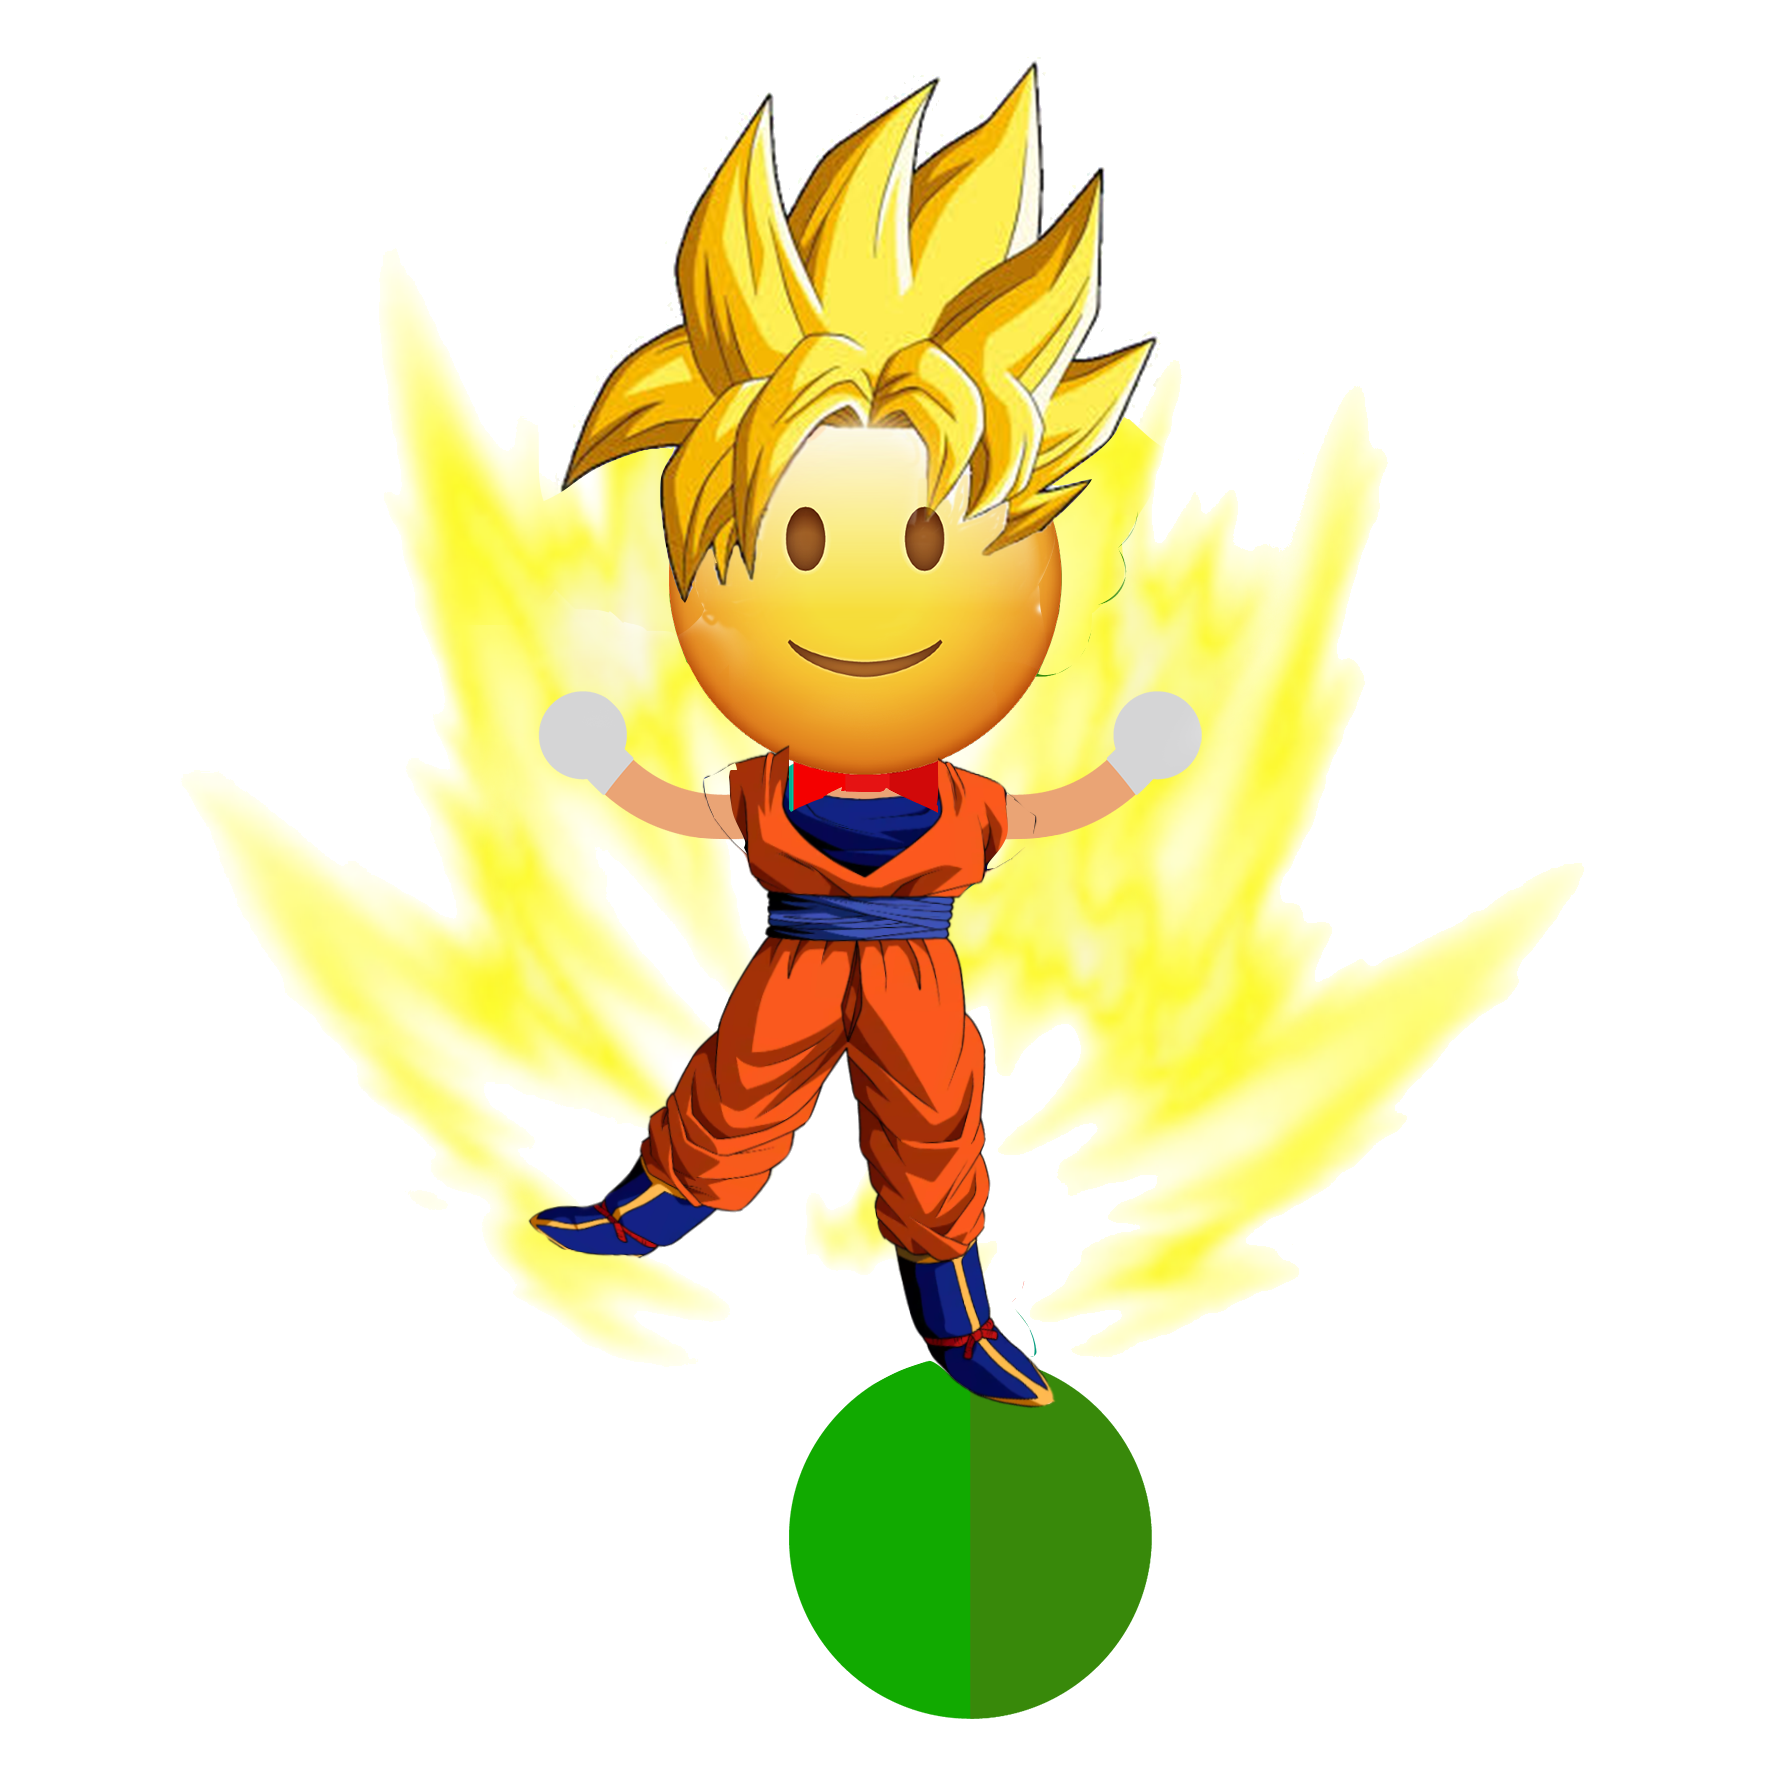
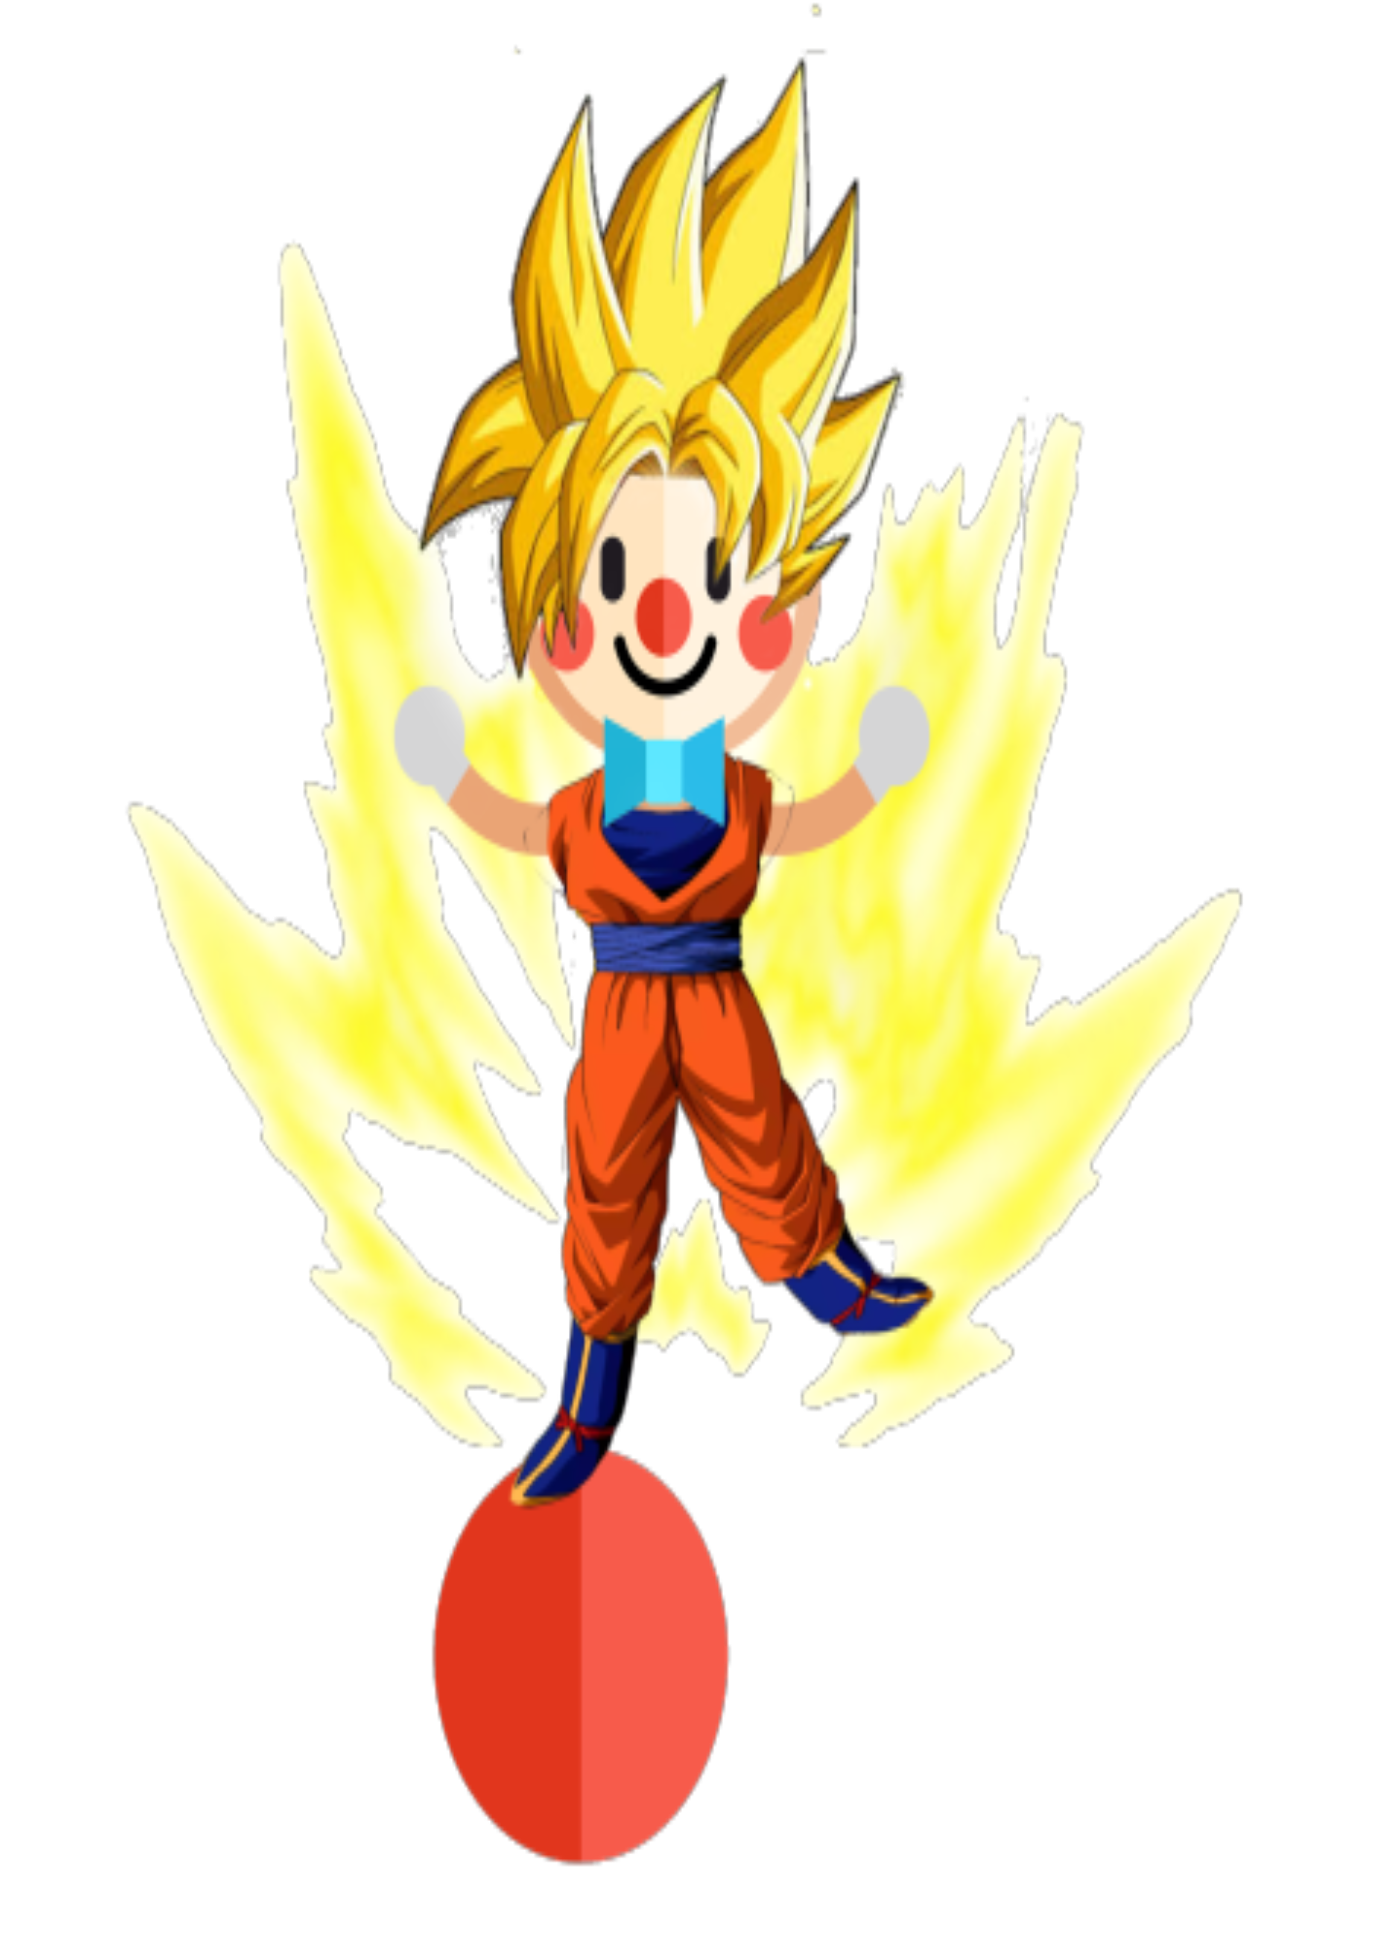
check pictures

diff --git a/src/Controllers/levels/newWorld.java b/src/Controllers/levels/newWorld.java
@@ -2,6 +2,7 @@ package Controllers.levels;
 
 import Controllers.Difficulty.Speed;
 import Models.BackGround.BackGroundFactory;
+import Models.Clowns.ClownFactory;
 import View.Gui.EndGame;
 import View.Gui.Gui;
 import Models.Utils.ArrayIterator;
@@ -41,10 +42,12 @@ public class newWorld implements World {
     ArrayList<Pair<Stick, Integer>> sticksArray = new ArrayList<>();
     ArrayList<Clown> clownsArray = new ArrayList<>();
     intersectPlates intersection = new intersectPlates();
+    int platesSpeed = 1;
     //static ArrayList <ArrayList <GameObject> > allData;
     Integer[] clownsX;
     ShelfHandler shelfhandler;
     long startSpecial;
+    boolean specialModeSeconds = false;
     boolean specialMode=false;
     private BackGroundFactory backGroundFactory = BackGroundFactory.getInstance();
     GameObject storeBackground;
@@ -95,12 +98,12 @@ public class newWorld implements World {
     @Override
     public boolean refresh() {
         long currentTime = System.currentTimeMillis();
-        if(score == 5){
+        if(score == 10){
             endGameWin();
             return false;
         }
         if(Gui.checkClosed())return false;
-        if((currentTime-startTime)/1000 >= 125){
+        if((currentTime-startTime)/1000 >= 120){
             endGameLose();
             return false;
         }
@@ -121,6 +124,7 @@ public class newWorld implements World {
             if (m.getY() == getHeight()) {
                 it.remove();
             }
+            int temp = score;
             int[] z = {score};
             if (intersection.intersect(m, sticksArray, z, movableObjects)) {
                 m.setState(new StackedState(m));
@@ -128,46 +132,73 @@ public class newWorld implements World {
             }
             if (m.getType().equals("SpecialPlate")&&intersection.isSpecial){
                 startSpecial=System.currentTimeMillis();
-                specialMode=true;
-                GameObject background1 = backGroundFactory.getBackGround(0,0,1200,600,"boom2.jpg");
+                GameObject background1 = backGroundFactory.getBackGround(0,0,1200,600,"boom.jpg");
                 intersection.isSpecial = false;
-                storeBackground=constantObjects.get(0);
-                constantObjects.set(0,background1);
-                storeSpeed=speed.getControlSpeed();
-                speed.setControlSpeed(storeSpeed*2);
-               /* Iterator iterator = clownsArray.iterator();
-                while(iterator.hasNext()){
-                    storeClownsArray.add((Clown) iterator.next());
-                }*/
-                /*for (int i=0; i<clownsArray.size(); i++){
+                Iterator iterator = clownsArray.iterator();
+                if(!specialMode) {
+                    storeBackground=constantObjects.get(0);
+                    constantObjects.set(0,background1);
+                    while (iterator.hasNext()) {
+                        storeClownsArray.add((Clown) iterator.next());
+                    }
+                }
+                boolean first = false;
+                for (int i=0; i<clownsArray.size(); i++){
                     Clown newOne;
                     int x=clownsArray.get(i).getX();
                     int y=clownsArray.get(i).getY();
-                   if(Facade.clownPath.contains("1")||Facade.clownPath.contains("2")) {
+                   if(Facade.clownPath.contains("1")) {
+                       first = true;
                        newOne= ClownFactory.getInstance().getclown(x,y,"Clown/goku.png",1);
-                       clownsArray.set(i,newOne);
+                   } else if(Facade.clownPath.contains("2")) {
+                        first = true;
+                        newOne= ClownFactory.getInstance().getclown(x,y,"Clown/goku2.png",1);
+                    }else if  (Facade.clownPath.contains("3")){
+                       first = false;
+                       newOne= ClownFactory.getInstance().getclown(x,y,"Clown/goku3.png",1);
+                   }else if  (Facade.clownPath.contains("4")){
+                       first = false;
+                       newOne= ClownFactory.getInstance().getclown(x,y,"Clown/goku4.png",1);
+                   }else {
+                       first = false;
+                       newOne= ClownFactory.getInstance().getclown(x,y,"Clown/goku5.png",1);
                    }
-                }*/
-                int x=clownsArray.get(0).getX();
-                int y=clownsArray.get(0).getY();
-                Clown newOne=ClownFactory.getInstance().getclown(x,y,"Clown/clown4.png",1);
-                clownsArray.set(0,newOne);
+                    newOne.stick1 = clownsArray.get(i).stick1;
+                    newOne.stick2 = clownsArray.get(i).stick2;
+                    newOne.registerObserver(newOne.stick1);
+                    newOne.registerObserver(newOne.stick2);
+                    controlableObjects.set(i,newOne);
+                    clownsArray.set(i,newOne);
+                }
+                specialModeSeconds = true;
+                specialMode=true;
             }
-            score = z[0];
+            if(specialMode){
+                score = temp + (z[0]-temp) * 2;
+            } else  {
+                score = z[0];
+            }
         }
-        /*  if ((currentTime-startSpecial)/1000>2 && (currentTime-startSpecial)/1000<15 && specialMode){
-            GameObject background1 = backGroundFactory.getBackGround(0,0,1200,600,"boom2.jpg");
+        if ((currentTime-startSpecial)/1000>2 && (currentTime-startSpecial)/1000<15 && specialModeSeconds) {
+            GameObject background1 = backGroundFactory.getBackGround(0,0,1200,600,"hi.png");
             constantObjects.set(0,background1);
-
-        }*/
-        if ((currentTime-startSpecial)/1000>15 && specialMode){
+            specialModeSeconds = false;
+        }
+        if ((currentTime-startSpecial)/1000>15 && specialMode) {
             specialMode=false;
             constantObjects.set(0,storeBackground);
-            speed.setControlSpeed(storeSpeed);
+            boolean first = false;
+            for (int i=0; i<storeClownsArray.size(); i++){
+                Clown newOne;
+                controlableObjects.set(i,storeClownsArray.get(i));
+                storeClownsArray.get(i).x = clownsArray.get(i).getX();
+                clownsArray.set(i,storeClownsArray.get(i));
+            }
+            storeClownsArray.clear();
         }
         if (time == 0)
             shelfhandler.throwPlates();
-        if(time_2==900){shelfhandler.makeSpecialPlates();time_2=0;}
+        if(time_2==100){shelfhandler.makeSpecialPlates();time_2=0;}
         it = removed.iterator();
         while (it.hasNext()) {
             constantObjects.remove(it.next());
@@ -226,7 +257,7 @@ public class newWorld implements World {
 
     @Override
     public String getStatus() {
-        return status + score + "                     Current Time: "+ ((System.currentTimeMillis() - startTime)/1000-5);
+        return status + score + "                     Current Time: "+ ((System.currentTimeMillis() - startTime)/1000);
     }
 
     @Override

diff --git a/src/View/Gui/EndGame.java b/src/View/Gui/EndGame.java
@@ -51,7 +51,7 @@ public class EndGame extends Application {
         label2.setFont(Font.font("Cambria", 15));
         label.setFont(Font.font("Cambria", 25));
         ImageView clown;
-        clown = new ImageView(new Image("Resources/yahia.jpg"));
+        clown = new ImageView(new Image("Resources/hi.png"));
         clown.setFitWidth(70);
         clown.setFitHeight(90);
         Button button=new Button(null,clown);

diff --git a/src/Models/Clowns/ImageObject.java b/src/Models/Clowns/ImageObject.java
@@ -12,7 +12,7 @@ public class ImageObject implements GameObject,Cloneable {
     public BufferedImage[] spriteImages = new BufferedImage[1];
     public ArrayList observers = new ArrayList();
     Loader loader;
-    int x;
+    public int x;
     int y;
     public boolean visible = true;
     public int type;

diff --git a/src/Controllers/Difficulty/Speed.java b/src/Controllers/Difficulty/Speed.java
@@ -2,7 +2,7 @@ package Controllers.Difficulty;
 
 public class Speed {
     public int controlspeed = 0;
-
+    public int speed = 0;
     public int getSpeed() {
         return 0;
     }

diff --git a/src/Controllers/Difficulty/Medium.java b/src/Controllers/Difficulty/Medium.java
@@ -5,6 +5,7 @@ import Models.Plates.SpecialPlate;
 public class Medium extends Speed {
     public Medium(){
         controlspeed = 25;
+        speed = 10;
     }
 
     @Override

diff --git a/src/Controllers/Difficulty/Hard.java b/src/Controllers/Difficulty/Hard.java
@@ -5,6 +5,7 @@ import Models.Plates.SpecialPlate;
 public class Hard extends Speed {
     public Hard(){
         controlspeed = 20;
+        speed  = 5;
     }
 
     @Override

diff --git a/src/Controllers/Difficulty/Easy.java b/src/Controllers/Difficulty/Easy.java
@@ -4,6 +4,7 @@ public class Easy extends Speed{
 
     public Easy(){
         controlspeed = 30;
+        speed = 10;
     }
     @Override
     public int getSpeed() {
